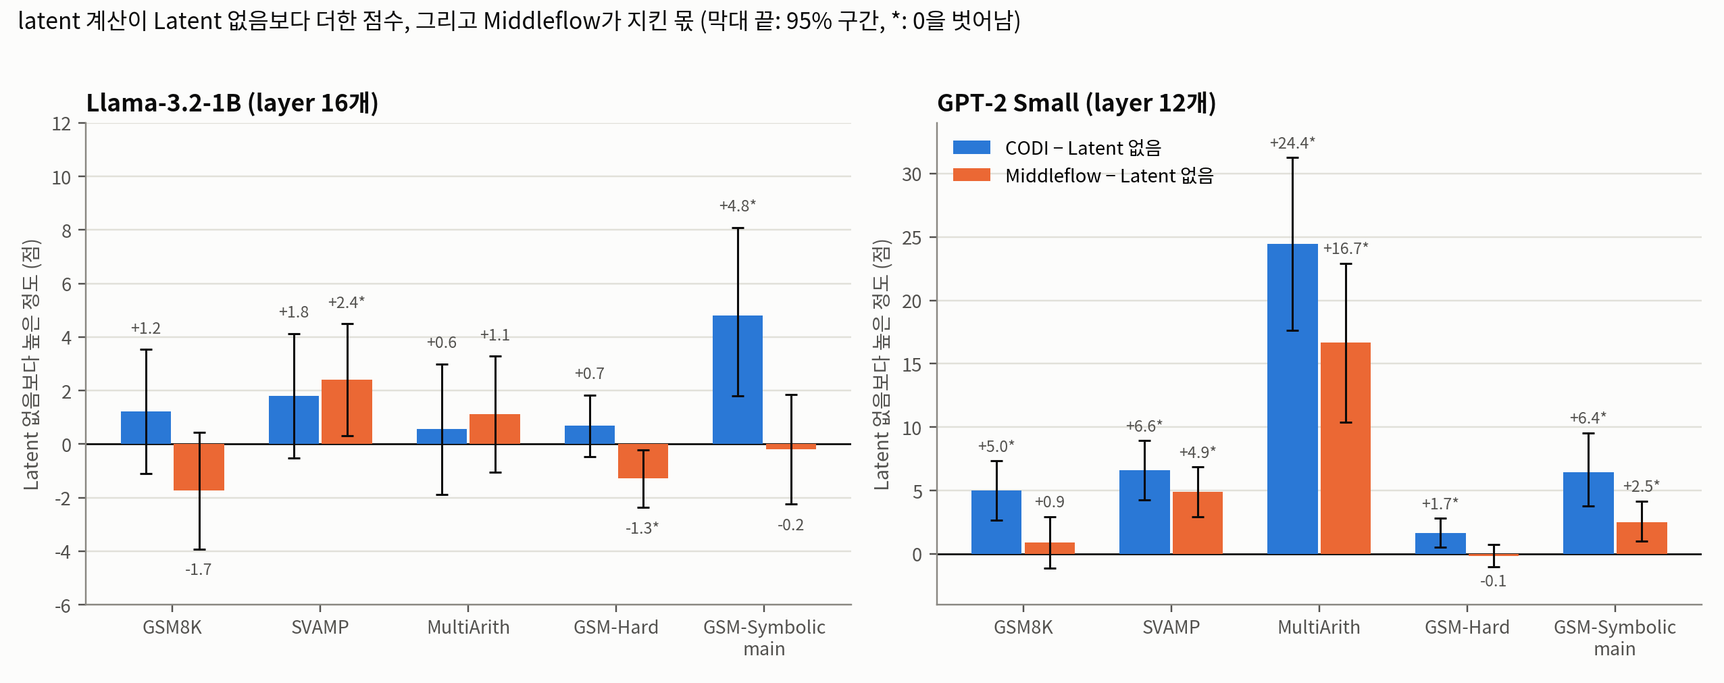
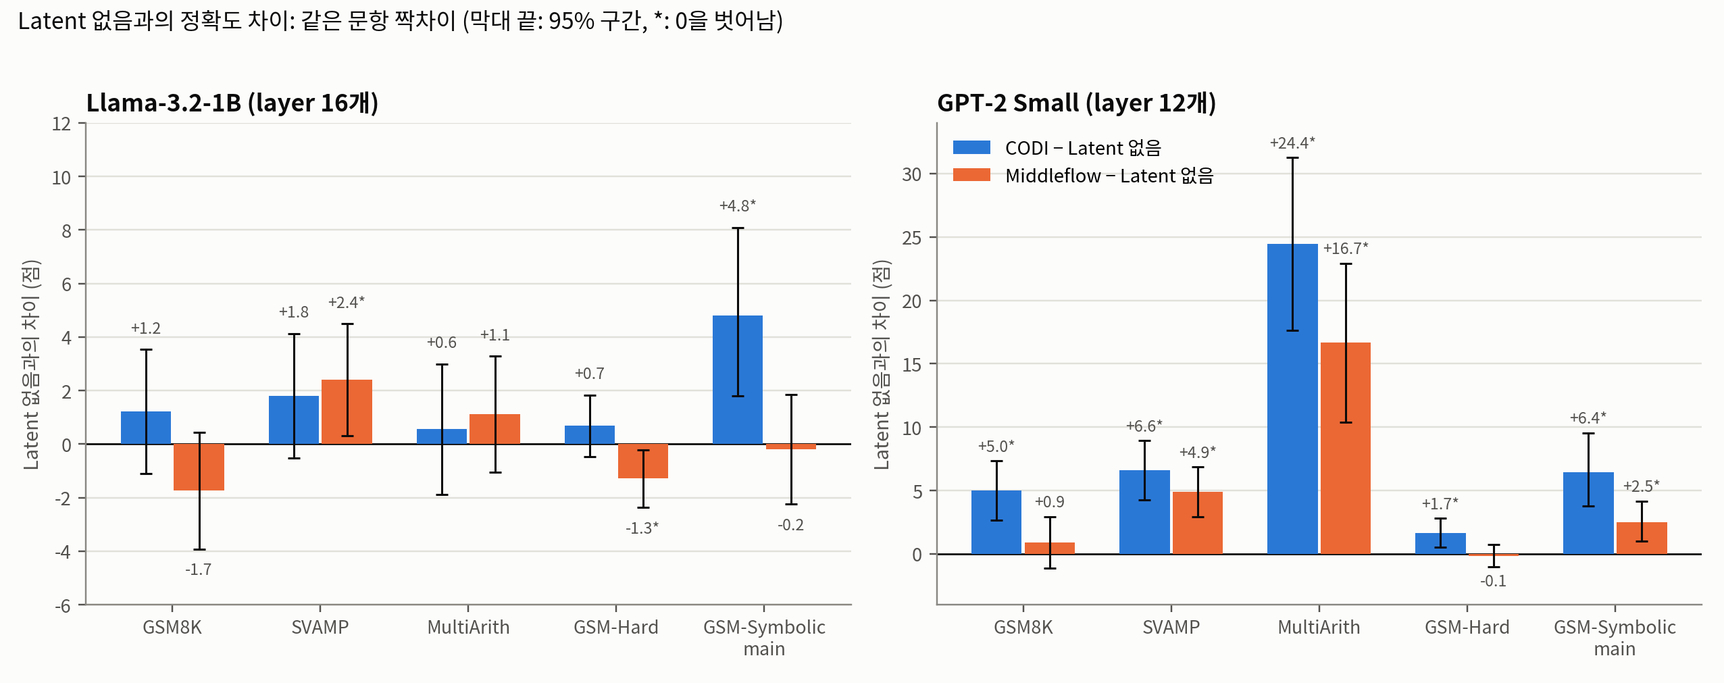
Middleflow: 'latent가 필요한 모델', '이득', '지킨 몫' 같은 이름표를 지우고 관찰한 정확도 차이로 바꿈. Latent 없음 글에 distillation이 걸리는 자리(답 숫자 바로 앞 토큰)와 답만 학습과의 차이를 적음. 그림 제목도 같은 표현으로 고침

Changed region(s): [[0.0, 0.0, 0.5882, 0.0613], [0.4953, 0.368, 0.5263, 0.7052], [0.0, 0.368, 0.031, 0.7052]]

diff --git a/content/experiments/2026-11-25-mf-o-research-questions.md b/content/experiments/2026-11-25-mf-o-research-questions.md
@@ -11,7 +11,7 @@ published: true
 
 - 지금까지의 Middleflow 연구를 실험 순서가 아니라 **질문 순서**로 다시 적었습니다. 질문마다 "본 현상 → 든 의문 → 그때까지 안 해 본 것 → 그래서 한 것 → 답 → 다음 의문"을 적었습니다.
 - 큰 질문은 하나입니다. **잠재 추론에서 생각 벡터(latent)는 꼭 모델의 모든 layer를 지나야 하는가. 지나지 않아도 된다면, 빼 버린 layer는 원래 무슨 일을 하고 있었나.**
-- 지금의 답은 모델에 따라 다릅니다. Llama-3.2-1B(layer 16개)에서는 latent가 가운데 7개 layer만 지나도 GSM8K가 3점만 낮았고, latent를 아예 계산하지 않아도 정확도가 같았습니다. 정확도의 대부분은 distillation(풀이를 본 교사의 내부 표현을 따라 하게 하는 학습)에서 왔습니다. 반면 layer가 12개뿐인 GPT-2 Small에서는 latent가 GSM8K 5.0점, MultiArith 24.4점을 보탰고, 가운데 5개 layer만 쓰는 Middleflow는 그 이득의 일부(벤치마크에 따라 0~74%)만 지켰습니다.
+- 지금의 답은 모델에 따라 다릅니다. Llama-3.2-1B(layer 16개)에서는 latent가 가운데 7개 layer만 지나도 GSM8K가 3점만 낮았고, latent를 아예 계산하지 않아도 정확도가 같았습니다. 정확도의 대부분은 distillation(풀이를 본 교사의 내부 표현을 따라 하게 하는 학습)에서 왔습니다. 반면 layer가 12개뿐인 GPT-2 Small에서는 CODI가 Latent 없음보다 GSM8K 5.0점, MultiArith 24.4점 높았고, 가운데 5개 layer만 쓰는 Middleflow와 Latent 없음의 차이는 그 일부(벤치마크에 따라 0~74%)였습니다.
 - 빼 버린 layer가 하던 일도 일부 보였습니다. 답은 latent를 주로 가운데 layer에서 읽었고, 앞쪽 layer는 latent 벡터를 거의 바꾸지 않았으며, 뒤쪽 layer는 latent를 숫자 토큰으로 읽히는 모양으로 바꿨습니다. 처음부터 그 경로로 학습하면 layer를 빼도 거의 그대로였지만, 학습 없이 빼면 크게 떨어졌습니다.
 - 비용은 FLOPs보다 "차례로 지나야 하는 layer 수"로 정해졌습니다. FLOPs로는 Middleflow가 CODI보다 추론 4.4%, 학습 2.6% 적을 뿐인데, 실제 시간은 23%, 21% 짧았습니다.
 - 실험 글 14편을 점검하니 9편은 우리 결과나 선행 연구에서 본 현상에서, 3편은 결과를 읽으려면 꼭 필요한 대조군에서 시작했습니다. 2편(띄엄 배치, 경로 변형)은 현상 없이 "해 볼 만한 변형"에서 시작했습니다.
@@ -124,7 +124,7 @@ GSM8K 시험 828번 문항입니다. 모델에는 문항 글을 그대로 넣고
 | 7. 차이를 만든 것은 꺼내는 곳인가 넣는 곳인가 | 11월 12일 | 넣는 곳이다. L13에서 꺼내 L0에 넣으면 CODI와 같다 | 1과 6의 결과 |
 | 8. 어려운 문제에서는 latent가 보태는가 | 11월 13일, 24일 | 단계별로는 판정 불가. 이름과 숫자를 바꾼 문항에서는 CODI가 4.8점 앞섰다 | 3의 결과와 latent의 기대 효과 |
 | 9. 빼 버린 layer는 무슨 일을 하길래 빼도 이만큼 나오는가 | 11월 24~25일 | 답은 latent를 가운데에서 읽는다. 처음부터 학습하면 빼도 거의 그대로, 학습 없이 빼면 크게 떨어진다 | 1의 결과 |
-| 10. latent가 꼭 필요한 모델에서는 어떤가 | 11월 24~25일 | GPT-2에서는 latent가 필요했다. Middleflow는 이득의 일부만 지켰다 | 3의 결과와 선행 연구 |
+| 10. GPT-2 Small에서는 어떤가 | 11월 24~25일 | CODI가 Latent 없음보다 GSM8K 5.0점 높았다. Middleflow는 0.9점(확인 안 됨) | 3의 결과와 선행 연구 |
 | 11. 시간 차이는 왜 FLOPs 차이보다 큰가 | 11월 25일 | 시간은 차례로 지나는 layer 수에 비례한다 | 1의 결과와 회의 지적 |
 | 12. latent가 지나는 경로를 step마다 바꾸면 | 11월 24~25일 | 보류. GPT-2 루프를 13.3 epoch에서 멈췄다 | 떠오른 변형(일부는 7과 10의 결과) |
 | 13. 기존 모델에서 같은 비용이면 어느 경로가 나은가 | 11월 25일~ | L0부터 7개 layer는 가운데 7개보다 낫지 않았다. 나머지는 학습 중 | 1, 7, 9, 11의 결과와 회의 지적 |
@@ -181,7 +181,7 @@ GSM8K 시험 828번 문항입니다. 모델에는 문항 글을 그대로 넣고
 | 그때까지 안 해 본 것 | 같은 코드에서 "답만 학습 → distillation까지 → latent 계산까지"를 한 줄로 나눈 적이 없었습니다. |
 | 그래서 한 것 | Latent 없음에서 distillation 손실 하나만 빼고 다시 학습했고, 답만 학습한 기준선과 견줬습니다. |
 | 답 | 답만 학습 30.86 → distillation까지 52.16 → latent 계산까지 53.37. 오른 22.5점 중 21.3점이 distillation에서 나왔습니다(distillation을 빼면 −15.47 [−18.04, −12.89]). |
-| 다음 의문 | latent가 보탠 몫은 작았습니다. 그러면 latent는 무엇을 넘기고 있나(질문 5)? |
+| 다음 의문 | CODI와 Latent 없음의 차이는 확인되지 않았습니다. 그러면 latent는 무엇을 넘기고 있나(질문 5)? |
 
 기록: [distillation 제거와 기준선](2026-11-10-mf-e-distillation-and-baselines.html)
 
@@ -235,7 +235,7 @@ GSM8K 시험 828번 문항입니다. 모델에는 문항 글을 그대로 넣고
 | 그때까지 안 해 본 것 | 같은 모델들을 풀이 단계 수별로, 그리고 이름과 숫자를 바꾼 문항으로 견준 적이 없었습니다. |
 | 그래서 한 것 | GSM8K를 정답 풀이의 계산식 수로 나눴고, GSM-Symbolic(같은 문항 틀에서 이름과 숫자를 바꾼 main, 단계를 하나 더한 P1, 둘 더한 P2)으로 다시 평가했습니다. |
 | 답 | 단계별로는 판정할 수 없었습니다(3~4단계 CODI − Latent 없음 +2.91 [−0.75, +6.56]). GSM-Symbolic main에서는 CODI가 Latent 없음보다 4.80점 높았습니다 [+1.80, +8.08]. 익숙한 문항은 latent 없이도 맞히고, 바뀐 문항에서 latent의 몫이 드러났습니다. GSM8K에서 CODI와 같던 L13→L0은 GSM-Symbolic main에서 2.50점 낮았습니다. |
-| 다음 의문 | latent 계산의 몫이 확실한 모델에서 봐야 Middleflow를 제대로 판단할 수 있습니다(질문 10). |
+| 다음 의문 | CODI와 Latent 없음의 정확도가 다른 모델에서 봐야 Middleflow를 제대로 판단할 수 있습니다(질문 10). |
 
 기록: [풀이 단계 수별](2026-11-13-mf-h-step-count.html), [더 어려운 문제](2026-11-24-mf-k-harder-benchmarks.html)
 
@@ -247,21 +247,21 @@ GSM8K 시험 828번 문항입니다. 모델에는 문항 글을 그대로 넣고
 | 든 의문 | 뺀 앞쪽(L0~L6)과 뒤쪽(L14~L15) layer는 latent에 무엇을 하고 있었나? 마지막 layer가 다음 토큰 고르기에 매여 있다면, 첫 layer도 토큰 읽기에 매여 latent에는 쓸모가 적은 것 아닐까? 그렇다면 어떤 의미에서, 왜 필요 없었나? layer를 몇 개까지 줄여도 되나? |
 | 그때까지 안 해 본 것 | 학습한 CODI에서 latent가 지나는 layer, 답이 latent를 보는 layer, layer별로 학습된 변화(LoRA)를 따로 떼어 본 적이 없었고, latent가 지나는 layer 수를 줄여 가며 잰 적도 없었습니다. |
 | 그래서 한 것 | 학습한 CODI와 Middleflow에서 추론 때만 ① latent가 지나는 layer 빼기, ② 답이 latent를 보는 layer 막기, ③ layer별 LoRA 끄기, ④ latent가 지나는 layer를 16개에서 1개까지 줄여 가기를 했고, 처음부터 그 경로로 학습한 모델과 나란히 놓았습니다. |
-| 답 | <!-- mf-q9-answer-start -->답은 latent를 주로 가운데(L7~L13)에서 읽었습니다(가운데에서만 보게 해도 −2.9, 아예 못 보게 하면 −17.2). 앞쪽 layer는 latent 벡터를 거의 바꾸지 않았고(layer를 지나며 바뀐 크기의 비율 L0~L6 0.06~0.30, L7~L15 0.35~0.58), 뒤쪽 L14~L15는 latent를 숫자 토큰으로 읽히는 모양으로 바꿨습니다. 처음부터 학습하면 latent가 지나는 layer 비율을 0~100%로 바꿔도 GSM8K가 50.42~53.37로 거의 평평했습니다. 학습한 CODI에서 추론 때만 줄이면 12개까지는 −2.1, 7개에서 −11.9, 6개 이하에서는 −15.7~−23.6으로 latent를 아예 못 볼 때와 같거나 낮았고, 앞쪽 4개를 빼면 −2.1, 뒤쪽 2개를 빼면 −7.0이었습니다. 빼 버린 layer의 LoRA를 끄면 30점 넘게 떨어져, 이 layer들은 latent에는 덜 쓰여도 질문을 읽고 답을 쓰는 데는 꼭 필요했습니다.<!-- mf-q9-answer-end --> |
-| 다음 의문 | Llama에서는 latent의 몫 자체가 작았습니다. latent가 꼭 필요한 모델에서도 가운데만으로 되는가(질문 10)? |
+| 답 | <!-- mf-q9-answer-start -->답은 latent를 주로 가운데(L7~L13)에서 읽었습니다(가운데에서만 보게 해도 −2.9, 아예 못 보게 하면 −17.2). 앞쪽 layer는 latent 벡터를 거의 바꾸지 않았고(layer를 지나며 바뀐 크기의 비율 L0~L6 0.06~0.30, L7~L15 0.35~0.58), 뒤쪽 L14~L15는 latent를 숫자 토큰으로 읽히는 모양으로 바꿨습니다. 처음부터 학습하면 latent가 지나는 layer 비율을 0~100%로 바꿔도 GSM8K가 50.42~53.37로 거의 평평했습니다. 학습한 CODI에서 추론 때만 줄이면 12개까지는 −2.1, 7개에서 −11.9, 6개 이하에서는 −15.7~−23.6으로 latent를 아예 못 볼 때와 같거나 낮았고, 앞쪽 4개를 빼면 −2.1, 뒤쪽 2개를 빼면 −7.0이었습니다. 빼 버린 layer의 LoRA를 끄면 30점 넘게 떨어져, 이 layer들은 latent에는 덜 쓰여도 질문을 읽고 답을 쓰는 데는 쓰였습니다.<!-- mf-q9-answer-end --> |
+| 다음 의문 | Llama의 GSM8K에서는 CODI와 Latent 없음의 차이가 확인되지 않았습니다. 두 조건의 정확도가 다른 모델에서도 가운데만으로 되는가(질문 10)? |
 
 기록: [쓰지 않는 layer의 역할](2026-11-24-mf-n-unused-layer-role.html), [layer 비율에 따른 정확도](2026-11-25-mf-q-layer-ratio.html)
 
-### 질문 10. latent가 꼭 필요한 모델에서는 어떤가 (GPT-2 Small)
+### 질문 10. GPT-2 Small에서는 어떤가
 
 | 순서 | 내용 |
 |---|---|
-| 본 현상 | Llama-1B에서는 latent 계산의 몫이 확인되지 않아, Middleflow가 "필요 없는 계산을 줄인 것"인지 "필요한 계산을 싸게 한 것"인지 가를 수 없었습니다. PCCoT 논문 표 1에서는 같은 CODI 손실로 학습한 GPT-2 Small에서 latent 계산이 약 9점을 보탰습니다. |
-| 든 의문 | latent가 필요한 모델에서 Middleflow는 그 이득을 지키는가? |
+| 본 현상 | Llama-1B에서는 latent 계산의 몫이 확인되지 않아, Middleflow가 "필요 없는 계산을 줄인 것"인지 "필요한 계산을 싸게 한 것"인지 가를 수 없었습니다. PCCoT 논문 표 1에서는 같은 CODI 손실로 학습한 GPT-2 Small에서 latent 계산이 있는 모델이 없는 모델보다 약 9점 높았습니다. |
+| 든 의문 | CODI와 Latent 없음의 정확도가 다른 모델에서 Middleflow의 정확도는 어디에 놓이는가? |
 | 그때까지 안 해 본 것 | 같은 코드로 GPT-2에서 CODI, Latent 없음, Middleflow를 학습한 적이 없었습니다. |
 | 그래서 한 것 | 코드를 GPT-2(layer 12개)로 옮기고, CODI(L11→L0), Latent 없음, Middleflow(L9→L5, 5개 layer)를 원본 CODI GPT-2 설정(40 epoch)으로 학습했습니다. |
-| 답 | GPT-2에서는 latent가 필요했습니다. CODI − Latent 없음은 GSM8K +5.00 [+2.68, +7.33], SVAMP +6.60, MultiArith +24.44, GSM-Hard +1.67, GSM-Symbolic main +6.44로 모두 0을 벗어났습니다. Middleflow는 그 이득의 일부만 지켰습니다(SVAMP 74%, MultiArith 68%, GSM-Symbolic main 39%, GSM8K 18%, GSM-Hard 0%). |
-| 다음 의문 | 얕은 모델에서 latent는 몇 개 layer를 지나야 이득을 지키는가? 이 질문에 답할 GPT-2 추가 학습(L9→L0 등)은 미루고, 지금까지 써 온 Llama에서 방법을 먼저 증명합니다(질문 13). |
+| 답 | GPT-2에서는 CODI가 Latent 없음보다 높았습니다. CODI − Latent 없음은 GSM8K +5.00 [+2.68, +7.33], SVAMP +6.60, MultiArith +24.44, GSM-Hard +1.67, GSM-Symbolic main +6.44로 모두 0을 벗어났습니다. Middleflow − Latent 없음은 그 차이의 일부였습니다(SVAMP 74%, MultiArith 68%, GSM-Symbolic main 39%, GSM8K 18%, GSM-Hard 0%). |
+| 다음 의문 | 얕은 모델에서 latent가 몇 개 layer를 지나야 CODI와 같은 정확도가 나오는가? 이 질문에 답할 GPT-2 추가 학습(L9→L0 등)은 미루고, 지금까지 써 온 Llama에서 방법을 먼저 증명합니다(질문 13). |
 
 기록: [GPT-2 Small 비교](2026-11-24-mf-j-gpt2-plan.html)
 
@@ -282,7 +282,7 @@ GSM8K 시험 828번 문항입니다. 모델에는 문항 글을 그대로 넣고
 
 | 순서 | 내용 |
 |---|---|
-| 본 현상 | 첫 layer에 넣으면 정확도가 CODI와 같았고(질문 7), 가운데만 돌면 싸지만 얕은 모델에서는 이득을 잃었습니다(질문 10). |
+| 본 현상 | 첫 layer에 넣으면 정확도가 CODI와 같았고(질문 7), 가운데만 돌면 싸지만 GPT-2 Small에서는 CODI보다 GSM8K가 4.1점 낮았습니다(질문 10). |
 | 든 의문 | 매 step 전체를 다 지나지 않고 step마다 한 layer씩 내려가 마지막 step에만 첫 layer에 닿으면(사선) 둘을 함께 얻을까? 가운데 계산이 모자란 것이라면 같은 가운데를 두 번 돌면(루프) 될까? 가운데 layer는 순서를 바꿔도 덜 무너진다는데, latent도 그런가(거꾸로)? |
 | 그때까지 안 해 본 것 | 지금까지의 변형은 모두 6개 step이 같은 layer 범위를 지났습니다. |
 | 그래서 한 것 | GPT-2에서 네 경로(루프, 사선, 후퇴 후 전진, 거꾸로)의 코드와 시험을 마치고 루프부터 학습했습니다. |
@@ -334,7 +334,7 @@ GSM8K 시험 828번 문항입니다. 모델에는 문항 글을 그대로 넣고
 2. **앞쪽 layer가 latent를 바꾸지 않는데, L0에 넣는 L13→L0은 왜 Middleflow보다 높은가.** L0부터 7개만 지나는 L6→L0은 낫지 않았습니다(질문 13, 15). latent가 앞쪽 layer에도 남아 답이 거기서도 읽을 수 있기 때문인지 확인이 필요합니다.
 3. **처음부터 학습하면 layer를 몇 개까지 줄여도 되는가.** 4개(L13→L10)와 2개(L13→L12)를 학습합니다(11월 27일 07:30쯤, 02시쯤).
 4. **첫 layer는 latent에 정말 할 일이 없는가.** 앞쪽 layer가 latent 벡터를 거의 바꾸지 않는다는 것까지는 봤습니다. 그 layer의 attention이 latent 자리에서 무엇을 읽는지는 아직 보지 않았습니다.
-5. **latent가 필요한 GPT-2에서는 몇 개 layer가 있어야 이득을 지키는가.** GPT-2에서 지금 있는 점은 0개, 5개, 12개입니다. 추가 학습은 기존 모델 실험 뒤로 미뤘습니다.
+5. **GPT-2에서는 latent가 몇 개 layer를 지나야 CODI와 같은 정확도가 나오는가.** GPT-2에서 지금 있는 점은 0개, 5개, 12개입니다. 추가 학습은 기존 모델 실험 뒤로 미뤘습니다.
 6. **학습을 한 번 더 해도 같은가.** 모두 시드 하나(11)입니다. Latent 없음을 시드 23으로 다시 학습했을 때 GSM8K가 1.44점 달랐습니다. 시드를 바꾼 학습은 위 실험들 뒤에 합니다.
 
 ## 점검: 실험 글 14편은 이 순서로 진행됐나
@@ -360,8 +360,8 @@ GSM8K 시험 828번 문항입니다. 모델에는 문항 글을 그대로 넣고
 
 **점검에서 본 것.**
 
-- 14편 중 우리 결과에서 출발한 글이 8편, 선행 연구에서 1편, 대조가 3편, 떠오른 변형이 2편입니다. 지금 남아 있는 주장(넣는 layer가 latent 의존도를 정함, 정확도의 주 출처는 distillation, GPT-2에서는 latent가 필요함)은 모두 앞의 12편에서 나왔습니다.
-- 떠오른 변형에서 시작한 2편 가운데 띄엄 배치는 결과가 Middleflow와 같아 보류했습니다. 경로 변형은 GPT-2 결과(질문 10)가 나온 뒤에야 "가운데만 돌면 얕은 모델에서 이득을 잃는다"는 현상으로 동기를 세울 수 있었고, 네 경로 중 후퇴 후 전진은 근거가 된 현상이 약했습니다. 그래서 11월 25일 낮에 루프 학습을 멈추고, 본 현상에서 나온 질문(질문 13)을 기존 모델에서 먼저 학습하기로 했습니다.
+- 14편 중 우리 결과에서 출발한 글이 8편, 선행 연구에서 1편, 대조가 3편, 떠오른 변형이 2편입니다. 지금 남아 있는 주장(넣는 layer가 latent 의존도를 정함, 정확도의 주 출처는 distillation, GPT-2에서는 CODI가 Latent 없음보다 높음)은 모두 앞의 12편에서 나왔습니다.
+- 떠오른 변형에서 시작한 2편 가운데 띄엄 배치는 결과가 Middleflow와 같아 보류했습니다. 경로 변형은 GPT-2 결과(질문 10)가 나온 뒤에야 "가운데만 돌면 GPT-2 Small에서 CODI보다 낮다"는 현상으로 동기를 세울 수 있었고, 네 경로 중 후퇴 후 전진은 근거가 된 현상이 약했습니다. 그래서 11월 25일 낮에 루프 학습을 멈추고, 본 현상에서 나온 질문(질문 13)을 기존 모델에서 먼저 학습하기로 했습니다.
 - 출발은 관찰이었는데 발표에서 동기가 빠진 실험이 있었습니다. 추론 때 latent 바꾸기(발표 18쪽)는 "latent 없이도 같다면 CODI는 latent를 쓰기는 하나"라는 의문에서 나왔지만, 발표 자료에는 무엇을 바꿨는지만 있고 왜 바꿨는지가 없었습니다. 질문 6에 동기와 0 벡터의 뜻을 적었습니다.
 - 독자가 물을 만한데 그동안 답하지 않은 질문이 넷 있었습니다. 비용을 FLOPs로 세면 어떤가([새 글 p](2026-11-25-mf-p-flops-vs-time.html)), latent가 지나는 layer 수를 줄이면 어떻게 변하는가([새 글 q](2026-11-25-mf-q-layer-ratio.html)), 빼 버린 layer는 왜 필요 없었나(글 n과 q), 학습 시간과 추론 계산량을 같게 하면 어떤가(글 m 진행 중, 추론 쪽은 글 b의 값으로 일부 답함)입니다.
 - 각 실험 글 맨 위에 그 글의 "본 현상, 든 의문, 그때까지 안 해 본 것, 그래서 한 것, 답, 다음 의문" 표를 넣었습니다.

diff --git a/content/experiments/2026-11-24-mf-j-gpt2-plan.md b/content/experiments/2026-11-24-mf-j-gpt2-plan.md
@@ -1,9 +1,9 @@
 ---
-title: GPT-2 Small에서 같은 비교 — latent가 필요한 모델에서 Middleflow는 이득의 일부만 지켰다
+title: GPT-2 Small에서 같은 비교 — GSM8K는 CODI 41.47, Middleflow 37.38, Latent 없음 36.47
 date: 2026-11-24
 project: Middleflow
 status: 진행 중
-summary: Llama-1B와 달리 GPT-2 Small에서는 latent 계산이 정확도를 올렸습니다(CODI − Latent 없음 GSM8K +5.0점, MultiArith +24.4점). 가운데 5개 layer만 쓰는 Middleflow는 SVAMP, MultiArith에서는 그 이득의 68~74%를, GSM8K, GSM-Hard에서는 0~18%만 지켰습니다. GPT-2 추가 학습(L9→L0 등)은 기존 모델 실험 뒤로 미뤘습니다.
+summary: Llama-1B와 달리 GPT-2 Small에서는 CODI가 Latent 없음보다 높았습니다(GSM8K +5.0점, MultiArith +24.4점). 가운데 5개 layer만 쓰는 Middleflow와 Latent 없음의 차이는 SVAMP, MultiArith에서는 그 68~74%, GSM8K, GSM-Hard에서는 0~18%였습니다. GPT-2 추가 학습(L9→L0 등)은 기존 모델 실험 뒤로 미뤘습니다.
 published: true
 ---
 
@@ -11,19 +11,19 @@ published: true
 
 | 순서 | 내용 |
 |---|---|
-| 본 현상 | Llama-1B에서는 latent 계산 없이 학습한 모델도 CODI와 정확도가 같아, Middleflow가 "필요 없는 계산을 줄인 것"인지 "필요한 계산을 싸게 한 것"인지 가를 수 없었습니다. PCCoT 논문 표 1에서는 같은 CODI 손실로 학습한 GPT-2 Small에서 latent 계산이 약 9점을 보탰습니다. |
-| 든 의문 | latent가 실제로 필요한 모델에서 Middleflow는 그 이득을 지키는가? |
+| 본 현상 | Llama-1B에서는 latent 계산 없이 학습한 모델도 CODI와 정확도가 같아, Middleflow가 "필요 없는 계산을 줄인 것"인지 "필요한 계산을 싸게 한 것"인지 가를 수 없었습니다. PCCoT 논문 표 1에서는 같은 CODI 손실로 학습한 GPT-2 Small에서 latent 계산이 있는 모델이 없는 모델보다 약 9점 높았습니다. |
+| 든 의문 | CODI와 Latent 없음의 정확도가 다른 모델에서 Middleflow의 정확도는 어디에 놓이는가? |
 | 그때까지 안 해 본 것 | 같은 코드와 설정으로 GPT-2에서 CODI, Latent 없음, Middleflow를 학습해 견준 적이 없었습니다. |
 | 그래서 한 것 | 코드를 GPT-2(layer 12개)로 옮기고 원본 CODI GPT-2 설정(40 epoch)으로 세 모델을 학습해 네 벤치마크, GSM-Symbolic, 추론 때 latent 바꾸기로 평가했습니다. |
-| 답 | GPT-2에서는 latent가 필요했습니다(CODI − Latent 없음 다섯 평가 모두 0을 벗어남). Middleflow는 그 이득의 일부만 지켰습니다(SVAMP 74%, MultiArith 68%, GSM-Symbolic main 39%, GSM8K 18%, GSM-Hard 0%). |
-| 다음 의문 | 얕은 모델에서 latent는 몇 개 layer를 지나야 이득을 지키는가? Llama처럼 첫 layer에 넣으면(L9→L0) CODI만큼 되찾는가? 이 질문에 답할 GPT-2 추가 학습은 미루고, 같은 질문을 지금까지 써 온 Llama에서 먼저 봅니다([기존 모델에서 방법 증명](2026-11-25-mf-r-llama-method-proof.html)). |
+| 답 | GPT-2에서는 CODI가 Latent 없음보다 높았습니다(CODI − Latent 없음이 다섯 평가 모두 0을 벗어남). Middleflow − Latent 없음은 그 차이의 일부였습니다(SVAMP 74%, MultiArith 68%, GSM-Symbolic main 39%, GSM8K 18%, GSM-Hard 0%). |
+| 다음 의문 | 얕은 모델에서 latent가 몇 개 layer를 지나야 CODI와 같은 정확도가 나오는가? Llama처럼 첫 layer에 넣으면(L9→L0) CODI와 같아지는가? 이 질문에 답할 GPT-2 추가 학습은 미루고, 같은 질문을 지금까지 써 온 Llama에서 먼저 봅니다([기존 모델에서 방법 증명](2026-11-25-mf-r-llama-method-proof.html)). |
 
 질문의 사슬 전체는 [연구 질문으로 다시 쓴 Middleflow 연구](2026-11-25-mf-o-research-questions.html)에 있습니다.
 
 ## 한 줄 요약
 
-- GPT-2 Small에서는 latent 계산이 정확도를 올렸습니다. CODI는 latent 없이 같은 손실로 학습한 모델보다 GSM8K 5.00점 [+2.68, +7.33], SVAMP 6.60점, MultiArith 24.44점, GSM-Hard 1.67점, GSM-Symbolic main 6.44점 높았습니다. Llama-1B에서는 이 차이가 확인되지 않았습니다.
-- 가운데 5개 layer(L5~L9)만 쓰는 Middleflow는 그 이득의 일부만 지켰습니다. 풀이 단계가 적은 SVAMP(74%)와 MultiArith(68%)에서는 대부분을 지켰고, 단계가 많은 GSM8K(18%)와 GSM-Hard(0%)에서는 거의 잃었습니다.
+- GPT-2 Small에서는 CODI가 Latent 없음보다 높았습니다. CODI는 latent 없이 같은 손실로 학습한 모델보다 GSM8K 5.00점 [+2.68, +7.33], SVAMP 6.60점, MultiArith 24.44점, GSM-Hard 1.67점, GSM-Symbolic main 6.44점 높았습니다. Llama-1B에서는 이 차이가 확인되지 않았습니다.
+- 가운데 5개 layer(L5~L9)만 쓰는 Middleflow와 Latent 없음의 차이는 그 일부였습니다. 풀이 단계가 적은 SVAMP(74%)와 MultiArith(68%)에서는 컸고, 단계가 많은 GSM8K(18%)와 GSM-Hard(0%)에서는 작았습니다.
 - 추론 때 latent를 지우면 CODI는 11~20점, Middleflow는 6~9점 떨어졌습니다. 두 모델 모두 latent를 쓰고, Llama에서처럼 Middleflow가 덜 기댑니다.
 
 ## 왜 궁금했나
@@ -100,18 +100,18 @@ latent를 비운 세 경우 모두 첫 단계의 값(2 × 6 = 12)을 답했고, 
 | CODI − Latent 없음 | +5.00 [+2.68, +7.33] | +6.60 [+4.27, +8.93] | +24.44 [+17.62, +31.27] | +1.67 [+0.54, +2.80] |
 | Middleflow − Latent 없음 | +0.91 [−1.13, +2.95] | +4.90 [+2.95, +6.85] | +16.67 [+10.41, +22.92] | −0.15 [−1.04, +0.74] |
 | Middleflow − CODI | −4.09 [−6.19, −1.99] | −1.70 [−3.78, +0.38] | −7.78 [−12.51, −3.04] | −1.82 [−2.82, −0.82] |
-| Middleflow가 지킨 몫 | 18% | 74% | 68% | 0% |
+| (Middleflow − Latent 없음) ÷ (CODI − Latent 없음) | 18% | 74% | 68% | 0% |
 
 | 비교 | GSM-Symbolic main | P1 | P2 |
 |---|---|---|---|
 | CODI − Latent 없음 | +6.44 [+3.76, +9.56] | +4.04 [+1.62, +7.16] | +1.28 [−0.60, +4.00] |
 | Middleflow − Latent 없음 | +2.50 [+1.00, +4.18] | +1.42 [+0.12, +2.92] | −0.56 [−1.84, +0.64] |
 | Middleflow − CODI | −3.94 [−6.66, −1.62] | −2.62 [−5.54, −0.36] | −1.84 [−5.20, +0.36] |
-| Middleflow가 지킨 몫 | 39% | 35% | 0% |
+| (Middleflow − Latent 없음) ÷ (CODI − Latent 없음) | 39% | 35% | 0% |
 
-**표 읽는 법.** 대괄호는 같은 문항을 두 모델이 맞혔는지 짝지어 낸 차이의 95% 구간입니다(GSM-Symbolic은 같은 문항 틀 100개 단위로 다시 뽑는 부트스트랩). 구간이 0을 포함하지 않으면 차이가 있다고 봅니다. "지킨 몫"은 (Middleflow − Latent 없음) ÷ (CODI − Latent 없음)이고, Middleflow가 Latent 없음보다 낮으면 0%로 적었습니다.
+**표 읽는 법.** 대괄호는 같은 문항을 두 모델이 맞혔는지 짝지어 낸 차이의 95% 구간입니다(GSM-Symbolic은 같은 문항 틀 100개 단위로 다시 뽑는 부트스트랩). 구간이 0을 포함하지 않으면 차이가 있다고 봅니다. 마지막 줄은 위 두 차이의 비율이고, Middleflow가 Latent 없음보다 낮으면 0%로 적었습니다.
 
-[![Llama-1B와 GPT-2 Small에서 latent 계산이 더한 점수와 Middleflow가 지킨 몫](../uploads/middleflow/experiments/latent-gain-llama-gpt2.png)](../uploads/middleflow/experiments/latent-gain-llama-gpt2.png)
+[![Llama-1B와 GPT-2 Small에서 CODI, Middleflow와 Latent 없음의 정확도 차이](../uploads/middleflow/experiments/latent-gain-llama-gpt2.png)](../uploads/middleflow/experiments/latent-gain-llama-gpt2.png)
 
 *파란 막대는 CODI, 주황 막대는 Middleflow가 Latent 없음보다 높은 정도입니다. 막대 끝의 선은 95% 구간, *는 구간이 0을 벗어난 것입니다. 왼쪽 Llama-1B는 GSM-Symbolic main만 CODI가 앞서고, 오른쪽 GPT-2는 다섯 평가 모두 CODI가 앞섭니다. 그림을 누르면 원본 크기로 열립니다.*
 
@@ -140,14 +140,14 @@ latent를 비운 세 경우 모두 첫 단계의 값(2 × 6 = 12)을 답했고, 
 
 Middleflow와 Latent 없음은 마지막 빼기 한 번을 빠뜨린 같은 답(80)을 썼습니다. 1,319문항 중 CODI만 맞히고 둘 다 틀린 문항은 92개입니다. 한 문항의 예이고, 이런 "한 단계 모자란" 답이 전체에서 몇 개인지는 세지 않았습니다.
 
-**미리 정한 판정에 대어 보면.** CODI는 다섯 평가 모두 Latent 없음보다 높아 첫째 줄의 앞부분(latent가 필요하다)은 맞습니다. Middleflow가 그 차이를 "대부분 지킴"은 SVAMP와 MultiArith에서만 맞고, GSM8K와 GSM-Hard에서는 둘째 줄("이득을 잃음")에 해당합니다. 판정은 벤치마크에 따라 갈렸습니다.
+**미리 정한 판정에 대어 보면.** CODI는 다섯 평가 모두 Latent 없음보다 높아 첫째 줄의 앞부분(CODI가 Latent 없음보다 높음)은 맞습니다. Middleflow가 그 차이를 "대부분 지킴"은 SVAMP와 MultiArith에서만 맞고, GSM8K와 GSM-Hard에서는 둘째 줄에 해당합니다. 판정은 벤치마크에 따라 갈렸습니다. 위 표의 "해석" 열은 결과를 보기 전에 적어 둔 것입니다. 이 결과로 확인된 것은 정확도의 차이이고, "latent가 필요하다"는 해석까지 확인된 것은 아닙니다.
 
 ## 그래서 무슨 뜻인가
 
-- **latent의 몫은 모델에 따라 다릅니다.** 같은 코드, 같은 손실로 학습해도 Llama-1B에서는 latent 계산의 몫이 확인되지 않았고 GPT-2 Small에서는 5~24점이었습니다. PCCoT 논문 표 1과 같은 방향입니다.
-- **Middleflow는 계산 단계가 적은 문제에서는 이득을 지키고, 많은 문제에서는 잃었습니다.** SVAMP와 MultiArith는 계산식 한두 개로 풀리는 문항이 많고, GSM8K와 GSM-Hard는 여러 개를 차례로 이어야 합니다. 가운데 5개 layer만으로는 여러 단계를 이어 계산하기에 모자랄 수 있습니다(가설, 아직 단계별로 나눠 확인하지 않음).
+- **CODI와 Latent 없음의 차이는 모델에 따라 다릅니다.** 같은 코드, 같은 손실로 학습해도 Llama-1B의 GSM8K에서는 차이가 확인되지 않았고 GPT-2 Small에서는 1.7~24.4점이었습니다(다섯 평가 모두 0을 벗어남). PCCoT 논문 표 1과 같은 방향입니다. 두 모델은 크기, layer 수, 사전학습 자료가 모두 달라, 무엇 때문에 다른지는 확인하지 않았습니다.
+- **Middleflow와 Latent 없음의 차이는 계산 단계가 적은 문제에서 크고, 많은 문제에서 작았습니다.** SVAMP와 MultiArith는 계산식 한두 개로 풀리는 문항이 많고, GSM8K와 GSM-Hard는 여러 개를 차례로 이어야 합니다. 가운데 5개 layer만으로는 여러 단계를 이어 계산하기에 모자랄 수 있습니다(가설, 아직 단계별로 나눠 확인하지 않음).
 - **Middleflow도 latent를 씁니다.** 지우면 6~9점, 다른 문항의 latent를 넣으면 10점 떨어졌습니다. 다만 CODI(11~36점)보다 덜 기댑니다. Llama에서 본 "넣는 layer가 latent 의존도를 정한다"와 같은 모습입니다.
-- **Llama에서 본 해결책이 여기서도 통하는지가 다음 질문입니다.** Llama에서는 L13→L0(첫 layer에 넣기)이 CODI와 정확도가 같았습니다. GPT-2에서 같은 위치인 L9→L0이 CODI만큼 되찾는다면, latent는 꺼내는 곳보다 넣는 곳이 중요하다는 결론이 두 모델에서 같아집니다.
+- **Llama에서 본 해결책이 여기서도 통하는지가 다음 질문입니다.** Llama에서는 L13→L0(첫 layer에 넣기)이 CODI와 정확도가 같았습니다. GPT-2에서 같은 위치인 L9→L0이 CODI와 같은 정확도를 낸다면, latent는 꺼내는 곳보다 넣는 곳이 중요하다는 결론이 두 모델에서 같아집니다.
 
 ## 진행 기록
 
@@ -191,7 +191,7 @@ GPT-2 CODI는 latent를 비우면 20점, 틀린 내용을 넣으면 30~36점 떨
 
 ## 다음 질문
 
-- 첫 layer에 넣으면(L9→L0) CODI만큼 되찾는가? 되찾는다면 Llama와 같은 결론(넣는 곳이 정확도를 정함)이 GPT-2에서도 성립합니다. 이 학습은 기존 모델 실험 뒤로 미뤘습니다.
+- 첫 layer에 넣으면(L9→L0) CODI와 같은 정확도가 나오는가? 그렇다면 Llama와 같은 결론(넣는 곳이 정확도를 정함)이 GPT-2에서도 성립합니다. 이 학습은 기존 모델 실험 뒤로 미뤘습니다.
 - 얕은 모델에서 latent는 몇 개 layer를 지나야 하는가? 지금 있는 점은 0개, 5개, 12개입니다([layer 비율에 따른 정확도](2026-11-25-mf-q-layer-ratio.html)).
 - 같은 질문을 기존 모델에서 먼저 봅니다. L0부터 7개 layer를 지나는 L6→L0, 추론 계산량을 CODI와 맞춘 Middleflow, layer 4개와 2개입니다([기존 모델에서 방법 증명](2026-11-25-mf-r-llama-method-proof.html)).
 

diff --git a/content/research/middleflow.md b/content/research/middleflow.md
@@ -18,7 +18,7 @@ published: true
 **지금의 답.**
 
 - Llama-3.2-1B(layer 16개)에서는 latent가 가운데 7개 layer만 지나도(Middleflow) GSM8K가 3점만 낮았고, 추론 23%, 학습 21% 빨랐습니다. latent를 아예 계산하지 않아도 정확도가 같았고, 정확도의 대부분은 distillation(풀이를 본 교사의 내부 표현을 따라 하게 하는 학습)에서 왔습니다.
-- layer가 12개뿐인 GPT-2 Small에서는 latent가 필요했습니다(CODI − Latent 없음 GSM8K +5.0점, MultiArith +24.4점). 가운데 5개 layer만 쓰는 Middleflow는 그 이득의 일부만 지켰습니다(SVAMP 74%, GSM8K 18%).
+- layer가 12개뿐인 GPT-2 Small에서는 CODI가 Latent 없음보다 높았습니다(GSM8K +5.0점, MultiArith +24.4점). 가운데 5개 layer만 쓰는 Middleflow와 Latent 없음의 차이는 그 일부였습니다(SVAMP 74%, GSM8K 18%).
 - 빼 버린 layer의 역할: 답은 latent를 주로 가운데 layer에서 읽었고, 앞쪽 layer는 latent를 거의 바꾸지 않았으며, 뒤쪽 layer는 latent를 숫자 토큰으로 읽히는 모양으로 바꿨습니다. 처음부터 그 경로로 학습하면 layer를 빼도 거의 그대로지만, 학습 없이 빼면 크게 떨어집니다.
 - 비용: FLOPs로는 Middleflow가 CODI보다 추론 4.4% 적을 뿐인데 실제 시간은 23% 짧습니다. 시간은 latent 계산에서 차례로 지나야 하는 layer 수에 비례합니다.
 - 쓰는 layer와 안 쓰는 layer의 차이: 학습한 CODI에서 latent가 질문과 앞선 latent를 읽는 일은 가운데 7개 layer에 몰려 있었습니다(질문 읽기를 막으면 가운데 −12.13, 앞쪽 7개 −1.36, 뒤쪽 2개 −1.52). 앞쪽은 latent를 거의 그대로 통과시켰고, 앞쪽 7개만 쓰도록 학습한 모델의 latent에는 중간 계산값이 거의 담기지 않았습니다(13%, Middleflow 50%).
@@ -55,7 +55,7 @@ GPT-2는 세 모델을 서로 다른 GPU에서 학습해 시간을 견주지 않
 | 7. 차이를 만든 것은 꺼내는 곳인가 넣는 곳인가 | 11월 12일 | 넣는 곳이다. L13에서 꺼내 L0에 넣으면 CODI와 같다 | 1과 6의 결과 |
 | 8. 어려운 문제에서는 latent가 보태는가 | 11월 13일, 24일 | 이름과 숫자를 바꾼 문항에서 CODI가 4.8점 앞섰다 | 3의 결과 |
 | 9. 빼 버린 layer는 무슨 일을 하길래 빼도 이만큼 나오는가 | 11월 24~25일 | 답은 latent를 가운데에서 읽는다. 학습하면 빼도 거의 그대로 | 1의 결과 |
-| 10. latent가 꼭 필요한 모델에서는 | 11월 24~25일 | GPT-2에서는 필요했고, Middleflow는 이득의 일부만 지켰다 | 3의 결과와 선행 연구 |
+| 10. GPT-2 Small에서는 | 11월 24~25일 | CODI가 Latent 없음보다 GSM8K 5.0점 높았고, Middleflow는 0.9점(확인 안 됨) | 3의 결과와 선행 연구 |
 | 11. 시간 차이는 왜 FLOPs 차이보다 큰가 | 11월 25일 | 시간은 차례로 지나는 layer 수에 비례한다 | 1의 결과와 회의 지적 |
 | 12. latent가 지나는 경로를 step마다 바꾸면 | 11월 24~25일 | 보류. GPT-2 루프를 13.3 epoch에서 멈췄다 | 떠오른 변형(일부는 7과 10의 결과) |
 | 13. 기존 모델에서 같은 비용이면 어느 경로가 나은가 | 11월 25일~ | L0부터 7개 layer는 가운데 7개보다 낫지 않았다. 나머지는 학습 중(추론 계산량을 맞춘 Middleflow, layer 4개와 2개) | 1, 7, 9, 11의 결과와 회의 지적 |
@@ -68,7 +68,7 @@ GPT-2는 세 모델을 서로 다른 GPU에서 학습해 시간을 견주지 않
 2. 앞쪽 layer가 latent를 바꾸지 않는데, L0에 넣는 L13→L0은 왜 Middleflow보다 2.65점 높은가. L0부터 7개만 지나는 L6→L0은 가운데 7개보다 낫지 않았습니다(GSM8K 49.36). latent가 앞쪽 layer에도 남아 답이 거기서도 읽을 수 있기 때문인지 확인이 필요합니다.
 3. 처음부터 학습하면 layer를 몇 개까지 줄여도 되는가. 4개(L13→L10)와 2개(L13→L12)를 학습합니다(11월 27일 07:30쯤, 02시쯤).
 4. 뒤쪽 두 layer가 latent에 더하는 것은 새 내용인가, 읽히기 쉬운 모양인가. 선형 분류기로는 뒤쪽에서 2~7점이 더 오르지만, 그 layer를 빼고 학습한 모델은 CODI와 같았습니다. ("첫 layer는 latent에 할 일이 없는가"는 11월 26일에 답했습니다. latent 자리에서 L1~L4의 attention은 66~90%가 맨 앞 토큰에 머물고, 읽기를 막아도 1.36점만 떨어졌습니다.)
-5. latent가 필요한 GPT-2에서는 몇 개 layer가 있어야 이득을 지키는가. GPT-2 추가 학습(L9→L0, 경로 변형)은 기존 모델 실험 뒤로 미뤘습니다.
+5. GPT-2에서는 latent가 몇 개 layer를 지나야 CODI와 같은 정확도가 나오는가. GPT-2 추가 학습(L9→L0, 경로 변형)은 기존 모델 실험 뒤로 미뤘습니다.
 6. 학습을 한 번 더 해도 같은가. 모두 시드 하나입니다. 시드를 바꾼 학습은 위 실험들 뒤에 합니다.
 
 1~3번의 설계와 결과를 보기 전에 정한 해석은 [기존 모델에서 방법 증명](../experiments/2026-11-25-mf-r-llama-method-proof.html)에 있습니다.
@@ -154,7 +154,7 @@ Middleflow
 - **같은 학습 시간과 같은 추론 시간(11월 26일 새벽 끝).** CODI의 학습 시간(19.1시간)만큼 더 학습한 Middleflow(12.73 epoch)와 Latent 없음(15.52 epoch)은 10 epoch 때보다 오르지 않았고, GSM8K에서 CODI보다 3.49점, 2.65점 낮았습니다([학습 시간 맞춤](../experiments/2026-11-24-mf-m-llama-codi-time.html)). 이미 학습한 모델에서 추론 때만 latent 수를 바꿔 시간을 맞추면, 각 모델은 학습한 latent 수에서 가장 높았습니다([추론 시간 맞춤](../experiments/2026-11-25-mf-r-llama-method-proof.html)).
 
 - **11월 25일 정리.** 연구 회의 지적에 따라 지금까지의 연구를 질문 순서로 다시 적고, 실험 글마다 "본 현상, 든 의문, 그때까지 안 해 본 것, 그래서 한 것, 답, 다음 의문" 표를 넣었습니다([연구 질문 정리](../experiments/2026-11-25-mf-o-research-questions.html)).
-- **GPT-2 결과(11월 25일 새벽 학습 끝).** latent가 필요한 모델에서 Middleflow는 이득의 일부만 지켰습니다([GPT-2 Small](../experiments/2026-11-24-mf-j-gpt2-plan.html)).
+- **GPT-2 결과(11월 25일 새벽 학습 끝).** GSM8K는 CODI 41.47, Middleflow 37.38, Latent 없음 36.47이었습니다([GPT-2 Small](../experiments/2026-11-24-mf-j-gpt2-plan.html)).
 - **FLOPs로 다시 잰 비용.** FLOPs 차이는 2~8%, 시간 차이는 21~41%였고, 시간은 차례로 지나는 layer 수에 비례했습니다([FLOPs와 실제 시간](../experiments/2026-11-25-mf-p-flops-vs-time.html)).
 - **latent가 지나는 layer 비율에 따른 정확도.** 처음부터 학습한 모델과, 학습한 CODI에서 추론 때만 layer를 줄인 경우를 한 그림에 놓았습니다([layer 비율](../experiments/2026-11-25-mf-q-layer-ratio.html)).
 - **쓰지 않는 layer의 역할(11월 24일).** 답은 latent를 주로 가운데 layer에서 읽었고, 뺀 layer는 질문을 읽고 답을 쓰는 데 쓰였습니다([쓰지 않는 layer](../experiments/2026-11-24-mf-n-unused-layer-role.html)).

diff --git a/content/experiments/2026-11-25-mf-q-layer-ratio.md b/content/experiments/2026-11-25-mf-q-layer-ratio.md
@@ -16,7 +16,7 @@ published: true
 | 그때까지 안 해 본 것 | 처음부터 학습한 모델 다섯(0%, 44%, 62.5%, 87.5%, 100%)이 따로 있었지만 한 줄로 놓은 적이 없었고, 학습한 CODI에서 latent가 지나는 layer를 하나씩 줄여 본 적도 없었습니다. |
 | 그래서 한 것 | ① 처음부터 그 경로로 학습한 Llama 모델 다섯과 GPT-2 모델 셋을 layer 비율 순으로 놓았습니다. ② 학습한 CODI와 Middleflow에서 추론 때만 latent가 지나는 layer를 줄였습니다(CODI 13가지, Middleflow 6가지). |
 | 답 | 처음부터 학습하면 Llama에서는 GSM8K 50.4~53.4로 거의 평평했습니다. 학습 없이 줄이면 12개까지는 −2.1, 7개에서 −11.9, 6개 이하에서는 −15.7~−23.6으로, latent를 아예 못 볼 때(−17.2)와 같거나 더 낮았습니다. 같은 수를 빼도 앞쪽 layer를 빼는 쪽이 덜 떨어졌습니다(앞 4개 −2.1, 뒤 2개 −7.0). GPT-2는 학습한 모델도 layer가 많을수록 높았습니다. |
-| 다음 의문 | 처음부터 학습하면 4개, 2개 layer로도 유지되는가? L13→L10과 L13→L12를 학습하고 있습니다([기존 모델에서 방법 증명](2026-11-25-mf-r-llama-method-proof.html)). latent가 필요한 GPT-2의 꺾은선(3개, 7개, 10개 layer)은 그 뒤로 미뤘습니다. |
+| 다음 의문 | 처음부터 학습하면 4개, 2개 layer로도 유지되는가? L13→L10과 L13→L12를 학습하고 있습니다([기존 모델에서 방법 증명](2026-11-25-mf-r-llama-method-proof.html)). GPT-2의 꺾은선(3개, 7개, 10개 layer)은 그 뒤로 미뤘습니다. |
 
 질문의 사슬 전체는 [연구 질문으로 다시 쓴 Middleflow 연구](2026-11-25-mf-o-research-questions.html)에 있습니다.
 
@@ -25,7 +25,7 @@ published: true
 - **처음부터 학습하면 거의 그대로.** Llama-3.2-1B에서 latent가 지나는 layer를 0%(Latent 없음), 44%(Middleflow), 62.5%, 87.5%, 100%(CODI)로 바꿔 처음부터 학습한 모델은 GSM8K 50.42~53.37로 거의 평평했습니다.
 - **학습 없이 빼면 크게 떨어집니다.** 학습한 CODI에서 추론 때만 layer를 줄이면 12개(75%)까지는 −2.1점이지만, 7개(44%)에서 −11.9점, 6개 이하에서는 −15.7~−23.6점이었습니다. 이는 latent를 아예 못 보게 할 때(36.16, −17.2점)와 같거나 더 낮은 값입니다. 반쯤 계산된 latent는 없는 것만 못했습니다.
 - **어디를 빼느냐도 다릅니다.** 같은 CODI에서 앞쪽 4개(L0~L3)를 빼면 −2.1점, 뒤쪽 2개(L14~L15)를 빼면 −7.0점이었습니다. 학습한 CODI의 latent에는 첫 layer들의 몫이 작고 마지막 layer들의 몫이 큽니다.
-- **latent가 필요한 모델에서는 다릅니다.** GPT-2 Small은 처음부터 학습해도 layer가 많을수록 높았습니다(GSM8K 36.47 → 37.38 → 41.47).
+- **GPT-2 Small에서는 다릅니다.** 처음부터 학습해도 latent가 지나는 layer가 많을수록 높았습니다(GSM8K 36.47 → 37.38 → 41.47).
 
 ## 왜 궁금했나
 
@@ -127,11 +127,11 @@ Middleflow는 latent 계산을 가운데 7개 layer로 줄였는데도 정확도
 
 ## 그래서 무슨 뜻인가
 
-- **Llama에서 처음부터 학습하면 layer 비율은 GSM8K를 거의 바꾸지 않았습니다.** 0%(Latent 없음)부터 100%(CODI)까지 50.42~53.37입니다. latent의 몫 자체가 작은 모델이라, latent가 지나는 layer를 줄여도 잃을 것이 적습니다. 다만 이름과 숫자를 바꾼 GSM-Symbolic main에서는 44%부터 100%까지 28.82 → 33.82로 layer가 많을수록 높았습니다.
+- **Llama에서 처음부터 학습하면 layer 비율은 GSM8K를 거의 바꾸지 않았습니다.** 0%(Latent 없음)부터 100%(CODI)까지 50.42~53.37입니다. GSM8K에서 CODI와 Latent 없음의 차이가 확인되지 않은 모델이라(+1.21 [−1.11, +3.53]), latent가 지나는 layer를 줄여도 차이가 작습니다. 다만 이름과 숫자를 바꾼 GSM-Symbolic main에서는 44%부터 100%까지 28.82 → 33.82로 layer가 많을수록 높았습니다.
 - **다 학습한 CODI는 16개 layer를 모두 쓰도록 맞춰져 있습니다.** 추론 때만 빼면 12개까지는 2점 안이지만, 그 아래로는 크게 떨어지고 6개 이하에서는 latent를 아예 못 볼 때와 같거나 낮습니다. Middleflow도 1~2개 layer만 지나게 하면 37~39점으로, latent를 못 보게 할 때(46.10)보다 낮습니다. 학습한 경로보다 짧게 계산된 latent는 틀린 중간값을 넘겨 없는 것만 못했습니다.
 - **앞쪽 layer의 몫은 작고 뒤쪽 layer의 몫은 컸습니다.** 학습한 CODI에서 앞쪽 4개를 빼면 −2.1점, 뒤쪽 2개를 빼면 −7.0점입니다. 앞쪽 layer가 latent 벡터를 거의 바꾸지 않는다는 측정([쓰지 않는 layer](2026-11-24-mf-n-unused-layer-role.html), 변화량 0.06~0.30)과 맞습니다. "첫 layer는 토큰 읽기에 매여 latent에는 할 일이 적다"는 가설 쪽의 근거입니다. 뒤쪽 layer는 latent를 숫자 토큰으로 읽히는 모양으로 바꾸는데, CODI는 그 모양에 맞춰 다음 latent를 만들도록 학습돼 있어 빼면 크게 흔들립니다.
 - **그래서 "안 쓴 layer는 의미가 없다"는 이렇게 고쳐 씁니다.** 학습한 CODI에서 그 layer들은 latent 계산에 분명히 일을 하고 있었습니다(빼면 2~24점 하락). 처음부터 짧은 경로로 학습하면 그 일이 다른 곳에서 메워집니다. Llama에서는 latent 없이 학습해도 같은 정확도가 나오므로(distillation과 모든 layer를 지나는 질문, 답 토큰이 메움), 메워질 여지가 큽니다.
-- **latent가 필요한 GPT-2에서는 처음부터 학습해도 layer가 많을수록 높았습니다(36.47 → 37.38 → 41.47).** 이 모델에서는 layer 수가 정확도를 정합니다. 꺾은선이 어디서 꺾이는지는 10개(L9→L0), 7개, 3개를 학습해야 알 수 있습니다.
+- **GPT-2에서는 처음부터 학습해도 latent가 지나는 layer가 많을수록 높았습니다(36.47 → 37.38 → 41.47).** 세 점(0개, 5개, 12개)의 결과입니다. 꺾은선이 어디서 꺾이는지는 10개(L9→L0), 7개, 3개를 학습해야 알 수 있습니다.
 
 ## 한계
 

diff --git a/content/experiments/2026-11-24-mf-n-unused-layer-role.md b/content/experiments/2026-11-24-mf-n-unused-layer-role.md
@@ -17,8 +17,8 @@ published: true
 | 든 의문 | 뺀 앞쪽(L0~L6)과 뒤쪽(L14~L15) layer는 latent에 무엇을 하고 있었나? 마지막 layer가 다음 토큰 고르기에 매여 있다면, 첫 layer도 토큰 읽기에 매여 latent에는 쓸모가 적은 것 아닐까? 그렇다면 어떤 의미에서, 왜 필요 없었나? |
 | 그때까지 안 해 본 것 | 학습한 CODI에서 latent가 지나는 layer, 답이 latent를 보는 layer, layer별로 학습된 변화(LoRA)를 따로 떼어 본 적이 없었습니다. |
 | 그래서 한 것 | 학습한 CODI와 Middleflow에서 추론 때만 latent가 지나는 layer를 빼고, 답이 latent를 보는 layer를 막고, layer별 LoRA를 껐습니다. layer별로 latent가 얼마나 바뀌는지와 logit lens도 쟀습니다. |
-| 답 | 답은 latent를 주로 가운데(L7~L13)에서 읽었고, 앞쪽 layer는 latent를 거의 바꾸지 않았으며, 뒤쪽 layer는 latent를 숫자 토큰으로 읽히는 모양으로 바꿨습니다. 학습 없이 빼면 크게 떨어지지만 처음부터 학습하면 거의 그대로였고, 뺀 layer는 질문을 읽고 답을 쓰는 데는 꼭 필요했습니다. |
-| 다음 의문 | layer를 몇 개까지 줄여도 되는가([layer 비율에 따른 정확도](2026-11-25-mf-q-layer-ratio.html))? latent가 꼭 필요한 모델에서도 가운데만으로 되는가([GPT-2 Small](2026-11-24-mf-j-gpt2-plan.html))? 뺀 layer와 남긴 layer가 latent 자리에서 하는 일은 어떻게 다른가([쓰는 layer와 안 쓰는 layer의 차이](2026-11-26-mf-s-layer-difference.html))? |
+| 답 | 답은 latent를 주로 가운데(L7~L13)에서 읽었고, 앞쪽 layer는 latent를 거의 바꾸지 않았으며, 뒤쪽 layer는 latent를 숫자 토큰으로 읽히는 모양으로 바꿨습니다. 학습 없이 빼면 크게 떨어지지만 처음부터 학습하면 거의 그대로였고, 뺀 layer의 LoRA를 끄면 30점 넘게 떨어졌습니다. |
+| 다음 의문 | layer를 몇 개까지 줄여도 되는가([layer 비율에 따른 정확도](2026-11-25-mf-q-layer-ratio.html))? CODI와 Latent 없음의 정확도가 다른 모델에서도 가운데만으로 되는가([GPT-2 Small](2026-11-24-mf-j-gpt2-plan.html))? 뺀 layer와 남긴 layer가 latent 자리에서 하는 일은 어떻게 다른가([쓰는 layer와 안 쓰는 layer의 차이](2026-11-26-mf-s-layer-difference.html))? |
 
 질문의 사슬 전체는 [연구 질문으로 다시 쓴 Middleflow 연구](2026-11-25-mf-o-research-questions.html)에 있습니다.
 
@@ -123,7 +123,7 @@ CODI에서는 중간값 9가 마지막 두 layer(L14, L15)에서야 읽힙니다
 - **latent 계산에서도 가운데 layer의 몫이 더 큽니다.** CODI 가중치로 바깥 9개 layer를 건너뛰면 GSM8K가 11.9점, 같은 수의 가운데 layer를 건너뛰면 24.3점 떨어졌습니다. 앞쪽 layer는 latent를 덜 바꿉니다(변화량 0.06~0.30).
 - **뒤쪽 L14~L15는 latent를 숫자로 읽히는 모양으로 바꿉니다.** 중간 계산값은 CODI에서 주로 L12~L15에서 읽혔습니다(예시 문항의 9). 하지만 답은 latent를 주로 L7~L13에서 읽으므로, 이 layer를 건너뛸 때의 손실(−7.0)은 가운데를 건너뛸 때보다 작았습니다.
 - **남은 차이는 학습이 메웁니다.** CODI 가중치에 Middleflow 경로만 쓰면 GSM8K가 11.9점 떨어지지만, 그 경로로 처음부터 학습한 Middleflow는 CODI보다 3.0점 낮을 뿐이었습니다.
-- **"쓰지 않는 layer"는 latent에 쓰지 않을 뿐, 질문을 읽고 답을 쓰는 데는 꼭 필요합니다.** 그 layer의 LoRA를 끄면 30점 넘게 떨어졌습니다. 질문과 답 토큰은 16개 layer를 모두 지나고, 학습은 그 layer들도 함께 고쳤습니다. latent가 지나지 않는 뒤쪽 L14~L15의 LoRA를 끄면 Middleflow는 47.5점 떨어져, CODI(37.6점)보다 이 layer의 학습된 변화에 더 기댔습니다.
+- **"쓰지 않는 layer"는 latent에 쓰지 않을 뿐, 질문을 읽고 답을 쓰는 데는 쓰입니다.** 그 layer의 LoRA를 끄면 30점 넘게 떨어졌습니다. 질문과 답 토큰은 16개 layer를 모두 지나고, 학습은 그 layer들도 함께 고쳤습니다. latent가 지나지 않는 뒤쪽 L14~L15의 LoRA를 끄면 Middleflow는 47.5점 떨어져, CODI(37.6점)보다 이 layer의 학습된 변화에 더 기댔습니다.
 - **Middleflow의 7개 layer도 모두 쓰입니다.** 추론 때 3개를 더 빼면 3.6~5.8점 떨어졌고, 뒤쪽 3개(L11~L13)를 뺄 때 더 떨어졌습니다.
 
 ## 한계와 주의

diff --git a/content/experiments/2026-11-26-mf-s-layer-difference.md b/content/experiments/2026-11-26-mf-s-layer-difference.md
@@ -230,11 +230,11 @@ CODI와 Middleflow는 latent가 가운데 layer에서 질문을 읽지 못하면
 - **앞쪽 layer는 latent를 그대로 통과시킵니다.** 읽기를 막아도 1.36점만 떨어지고, 표현도 거의 바뀌지 않습니다. "첫 layer도 토큰 읽기에 매여 latent에는 쓸모가 적다"는 가설과 맞습니다. 처음부터 앞쪽 7개만 쓰도록 학습해도(L6→L0) 그 layer들은 latent로 계산을 하지 않았습니다. 이 학습에서는 그 일이 앞쪽으로 옮겨 오지 않았습니다.
 - **뒤쪽 두 layer는 막아도 1.52점만 떨어지지만, 값이 읽히는 비율은 조금 더 올립니다.** 처음부터 이 두 layer를 빼고 학습한 L13→L0이 CODI와 정확도가 같았으므로([넣는 layer 기록](2026-11-12-mf-f-insert-layer.html)) 없어도 되는 것은 맞습니다. 다만 이 layer들이 하는 일이 "다음 토큰 모양으로 바꾸기"뿐인지는 이번 측정으로 가르지 못했습니다.
 - **그런데도 Middleflow는 CODI보다 3점 낮습니다.** 이 차이는 "앞쪽 layer의 계산이 빠져서"로는 설명되지 않습니다(앞쪽은 계산을 하지 않음). 남은 후보는 latent가 앞쪽, 뒤쪽 layer에 남지 않아 답이 거기서는 읽지 못한다는 점입니다. 학습한 CODI에서 답이 가운데에서만 latent를 보게 했을 때도 2.9점 떨어졌습니다. 이것이 다음 확인 대상입니다.
-- **latent의 몫 자체가 작은 모델이라는 점은 그대로입니다.** Llama-3.2-1B의 GSM8K에서는 latent 없이 학습해도 52.16입니다. 이번 결과는 "latent를 쓴다면 어느 layer가 그 일을 하는가"에 대한 답이고, "latent가 필요한가"에 대한 답은 아닙니다.
+- **CODI와 Latent 없음의 차이가 확인되지 않은 모델이라는 점은 그대로입니다.** Llama-3.2-1B의 GSM8K에서는 latent 없이 학습해도 52.16입니다(CODI 53.37). 이번 결과는 "latent를 쓴다면 어느 layer가 그 일을 하는가"에 대한 답이고, "latent가 필요한가"에 대한 답은 아닙니다.
 
 ## 한계와 주의
 
-- 시드 하나, 모델 하나(Llama-3.2-1B)입니다. latent가 꼭 필요했던 GPT-2 Small에서는 재지 않았습니다.
+- 시드 하나, 모델 하나(Llama-3.2-1B)입니다. CODI가 Latent 없음보다 높았던 GPT-2 Small에서는 재지 않았습니다.
 - 읽기 막기는 학습 때 겪어 보지 못한 입력을 만듭니다. 정확한 몫보다 구간 사이의 크기 차이(가운데 −12.13, 앞쪽 −1.36)로 읽습니다.
 - attention 몫은 head 평균입니다. 몫이 크다고 그 읽기가 쓰인다는 뜻은 아닙니다(L5~L6, L14~L15).
 - 선형 분류기는 직선으로 읽히는 정보만 봅니다. 읽히지 않는다고 정보가 없다는 뜻은 아니고, 분류기 학습 문항(21,600개)이 값의 가짓수(1,001)에 비해 많지 않아 절대값은 낮게 나옵니다. layer 사이의 오르내림으로 읽습니다.

diff --git a/content/experiments/2026-11-06-mf-a-middleflow-vs-codi.md b/content/experiments/2026-11-06-mf-a-middleflow-vs-codi.md
@@ -11,7 +11,7 @@ method_examples:
     kind: 실제 실험 예시
     problem: 'GSM8K 828번 "Mulan has $40. Her father gave her $100. She buys two pairs of jeans at $30 each and a bag for $20. How much money does Mulan have left?" (정답 60)'
     comparison: 'Llama-3.2-1B에서 CODI는 latent 6개가 각각 16개 layer를 지나고(96번), Middleflow는 L13에서 꺼내 L7에 넣어 7개 layer만 지납니다(42번). 질문과 답은 두 모델 모두 16개 layer를 지납니다.'
-    assessment: '두 모델 모두 60을 맞혔습니다. 1,319문항 평균으로 Middleflow는 추론 98.4 ms로 CODI(127.9 ms)보다 23% 빨랐고 GSM8K는 2.96점 낮았습니다. latent가 꼭 필요한 GPT-2 Small에서는 같은 문항을 CODI만 맞히고 Middleflow는 80(가방 값을 빼지 않음)을 썼습니다.'
+    assessment: '두 모델 모두 60을 맞혔습니다. 1,319문항 평균으로 Middleflow는 추론 98.4 ms로 CODI(127.9 ms)보다 23% 빨랐고 GSM8K는 2.96점 낮았습니다. GPT-2 Small에서는 같은 문항을 CODI만 맞히고 Middleflow는 80(가방 값을 빼지 않음)을 썼습니다.'
 summary: latent를 가운데 7개 layer에서만 계산하는 Middleflow는 같은 설정의 CODI보다 추론이 23%, 학습이 21% 빨랐습니다. SVAMP와 MultiArith는 같았고 GSM8K는 2.96점, GSM-Hard는 1.97점 낮았습니다.
 published: true
 ---
@@ -98,7 +98,7 @@ GSM8K 167번 문항으로 따라가 봅니다.
 
 - latent를 가운데 layer로 좁히면 계산과 시간은 확실히 줄어듭니다.
 - 정확도는 계산이 여러 단계인 GSM8K, GSM-Hard에서 조금 떨어졌습니다.
-- 다만 같은 계산량의 CODI(latent 3개)와 비교하면 속도와 정확도 모두 비슷해서, 속도 이점이 Middleflow만의 것은 아닙니다([latent 3개 CODI 기록](2026-11-09-mf-b-codi-three-latents.html)). 또 latent 없이 학습한 모델도 정확도가 같아([Latent 없음 기록](2026-11-09-mf-c-no-latent.html)), 이 모델에서는 latent 계산 자체의 몫이 작습니다. Middleflow의 효과는 latent가 실제로 필요한 조건에서 다시 봐야 합니다.
+- 다만 같은 계산량의 CODI(latent 3개)와 비교하면 속도와 정확도 모두 비슷해서, 속도 이점이 Middleflow만의 것은 아닙니다([latent 3개 CODI 기록](2026-11-09-mf-b-codi-three-latents.html)). 또 latent 없이 학습한 모델도 정확도가 같아([Latent 없음 기록](2026-11-09-mf-c-no-latent.html)), 이 모델에서는 CODI와 Latent 없음의 차이가 확인되지 않았습니다. Middleflow의 효과는 두 조건의 정확도가 다른 모델에서 다시 봐야 합니다.
 
 ## 한계
 

diff --git a/content/experiments/2026-11-09-mf-c-no-latent.md b/content/experiments/2026-11-09-mf-c-no-latent.md
@@ -39,6 +39,8 @@ CODI와 Middleflow의 정확도가 latent 계산에서 오는지 확인하려면
 | Latent 없음 | 학습할 때도 추론할 때도 latent를 계산하지 않고 따로 학습한 모델. 학습이 끝난 CODI에서 latent를 뺀 것이 아니다 | 기본 Llama-3.2-1B-Instruct에서 출발해 10 epoch |
 | 답 position 간격 | 질문 끝과 답 사이에 비워 둔 position 번호 수. latent 6개가 있을 때와 같은 번호를 답에 주려고 띄운다 | 학습 때 6 |
 | 손실 세 항 | ① 교사 CE: 질문과 풀이를 보고 맞힘, ② 학생 CE: 풀이 없이 답을 맞힘, ③ distillation: 답 직전 위치에서 학생의 내부 표현을 교사와 같게 맞춤 | CODI와 같음(③의 계수 20) |
+| distillation이 걸리는 자리 | latent끼리 맞추는 것이 아니다. 교사 쪽에는 latent가 없다(교사는 풀이를 글로 읽는다). 교사 입력과 학생 입력에 모두 있는 답 숫자 바로 앞 토큰 자리에서 layer 경계 17곳의 내부 표현을 맞춘다. 그래서 latent가 없는 이 모델에도 그대로 걸린다 | "The answer is: 16"에서 16 바로 앞 토큰 |
+| 답만 학습과의 차이 | 질문과 답만으로 학습한 모델에는 ②만 있다. 이 모델에는 ①과 ③이 더 있다 | GSM8K: 답만 학습 30.86, ③만 뺀 모델 36.69, 이 모델 52.16 |
 
 ## 방법
 
@@ -86,7 +88,7 @@ GSM8K 30번 문항: "Darrell and Allen's ages are in the ratio of 7:11. If their
 ## 그래서 무슨 뜻인가
 
 - 이 모델과 이 과제에서는 latent 계산이 정확도에 더하는 몫이 확인되지 않았습니다. 같은 현상은 PCCoT 논문(arXiv 2506.18582) 표 1의 Llama-1B 기준선에도 있습니다.
-- 그렇다고 "latent는 의미 없다"는 뜻은 아닙니다. 같은 표에서 GPT-2 Small은 latent 계산이 약 9점을 더했습니다. 계산 여유가 부족한 모델에서는 latent가 필요할 수 있습니다.
+- 그렇다고 "latent는 의미 없다"는 뜻은 아닙니다. 같은 표에서 GPT-2 Small은 latent 계산이 있는 모델이 없는 모델보다 약 9점 높았습니다. 모델에 따라 결과가 다릅니다.
 - latent가 없으면 학습과 추론이 가장 빠르지만, 추론 때 latent 수를 늘려 더 생각하게 할 수 없고, 중간 상태를 들여다볼 수도 없습니다.
 - 이 모델의 정확도가 어디서 오는지는 [distillation 제거 기록](2026-11-10-mf-e-distillation-and-baselines.html)에서 봅니다.
 

diff --git a/content/experiments/2026-11-24-mf-l-latent-path-plan.md b/content/experiments/2026-11-24-mf-l-latent-path-plan.md
@@ -13,7 +13,7 @@ published: true
 
 | 순서 | 내용 |
 |---|---|
-| 본 현상 | 첫 layer에 넣으면 정확도가 CODI와 같았고([넣는 layer](2026-11-12-mf-f-insert-layer.html)), 가운데만 돌면 싸지만 latent가 필요한 GPT-2에서는 이득의 일부만 지켰습니다([GPT-2 Small](2026-11-24-mf-j-gpt2-plan.html), 11월 25일). |
+| 본 현상 | 첫 layer에 넣으면 정확도가 CODI와 같았고([넣는 layer](2026-11-12-mf-f-insert-layer.html)), 가운데만 돌면 싸지만 GPT-2에서는 CODI보다 GSM8K가 4.1점 낮았습니다([GPT-2 Small](2026-11-24-mf-j-gpt2-plan.html), 11월 25일). |
 | 든 의문 | 매 step 전체를 지나지 않고 step마다 한 layer씩 내려가 마지막 step에만 첫 layer에 닿으면(사선) 둘을 함께 얻을까? 가운데 계산이 모자란 것이라면 같은 가운데를 두 번 돌면(루프) 될까? 가운데 layer는 순서를 바꿔도 덜 무너진다는데 latent도 그런가(거꾸로)? |
 | 그때까지 안 해 본 것 | 지금까지의 변형은 모두 6개 step이 같은 layer 범위를 지났습니다. |
 | 그래서 한 것 | GPT-2에서 네 경로(루프, 사선, 후퇴 후 전진, 거꾸로)의 코드와 시험을 마치고 루프부터 학습했습니다. 이 계획은 11월 24일에 "해 볼 만한 경로"로 먼저 세웠고, 현상에서 나온 동기(위 두 줄)는 11월 25일 GPT-2 결과를 보고 다시 적었습니다. 후퇴 후 전진은 근거가 된 현상이 약합니다. |
@@ -109,7 +109,7 @@ latent가 지나는 layer를 step마다 다르게 정하는 세 가지 경로를
 
 | 결과 | 해석 |
 |---|---|
-| 사선이 Middleflow보다 높고 CODI와 차이가 확인되지 않음 | 같은 계산량으로 첫 layer까지 닿는 경로가 latent의 이득을 되찾는다 |
+| 사선이 Middleflow보다 높고 CODI와 차이가 확인되지 않음 | 같은 계산량으로 첫 layer까지 닿는 경로면 CODI와의 차이가 없어진다 |
 | 루프가 L9→L0보다 높음 | 같은 계산량이면 가운데를 깊게 도는 것이 넓게 지나는 것보다 낫다 |
 | 셋 모두 Middleflow와 차이가 확인되지 않음 | 경로 모양보다 계산량이나 넣는 위치가 중요하다 |
 | 거꾸로가 Middleflow와 차이가 확인되지 않음 | 가운데 layer의 순서는 latent 계산에 중요하지 않다 |

diff --git a/content/experiments/2026-11-13-mf-h-step-count.md b/content/experiments/2026-11-13-mf-h-step-count.md
@@ -58,13 +58,13 @@ latent의 기대 효과 하나는 "답 전에 계산할 자리를 더 주는 것
 
 3~4단계에서 L13→L0 − Latent 없음은 +2.60 [−0.72, +5.92]입니다.
 
-**표 읽는 법.** 세 묶음 모두 구간이 0을 포함해 "차이 확인 안 됨"입니다. 단계가 많아질수록 No-CoT-SFT와의 차이는 커집니다(1~2단계 21점, 3~4단계 28점). 그 이득은 latent가 있든 없든 비슷하게 나타납니다.
+**표 읽는 법.** 세 묶음 모두 구간이 0을 포함해 "차이 확인 안 됨"입니다. 단계가 많아질수록 No-CoT-SFT와의 차이는 커집니다(1~2단계 21점, 3~4단계 28점). 그 차이는 latent가 있든 없든 비슷하게 나타납니다.
 
 ## 그래서 무슨 뜻인가
 
-- 단계가 많은 문항에서 이득을 주는 것은 latent 계산보다 distillation 학습 쪽입니다([distillation 제거 기록](2026-11-10-mf-e-distillation-and-baselines.html)).
+- 단계가 많은 문항에서 No-CoT-SFT와의 차이를 만든 것은 latent 계산보다 distillation 학습 쪽입니다([distillation 제거 기록](2026-11-10-mf-e-distillation-and-baselines.html)).
 - 3~4단계의 +2.9점은 방향은 맞지만, 판정하려면 문항이 더 필요합니다. 5단계 이상은 225문항뿐이라 구간이 ±5점을 넘습니다.
-- 이 모델에서 latent가 필요한 조건을 찾으려면 더 긴 풀이를 요구하는 과제나 계산 여유가 적은 모델(GPT-2 Small)이 필요합니다.
+- 이 모델에서 CODI와 Latent 없음의 정확도가 갈리는 조건을 찾으려면 더 긴 풀이를 요구하는 과제나 다른 모델(GPT-2 Small)에서 봐야 합니다.
 
 ## 한계
 
